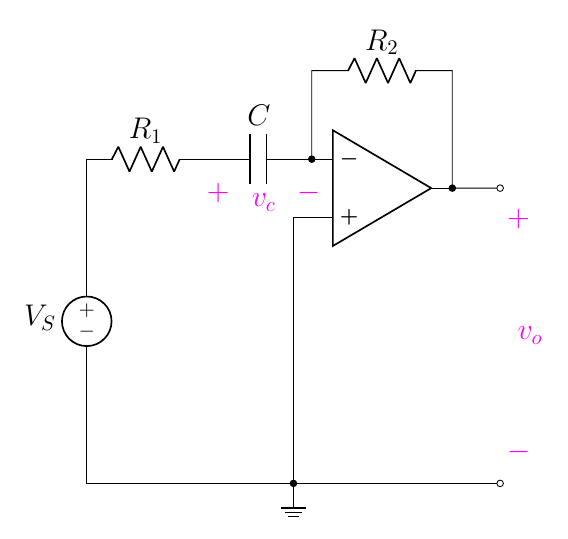
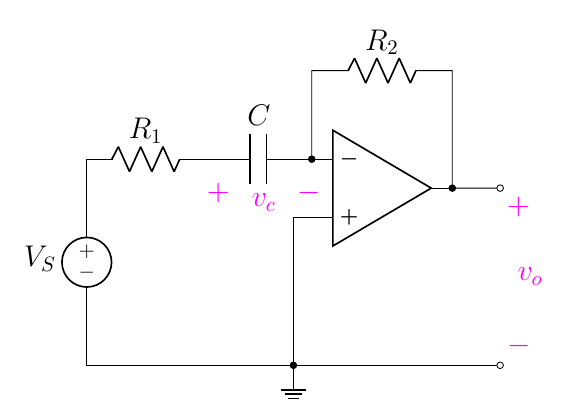
edit 7.73

diff --git a/2.5 First-Order Op Amp/7.7 First Order Op-Amp Circuit/7.73(new).tex b/2.5 First-Order Op Amp/7.7 First Order Op-Amp Circuit/7.73(new).tex
@@ -2,7 +2,7 @@
 \begin{document}
 \begin{circuitikz}[american,cute inductors]
     \input{../../preamble2.tex}
-    \draw (5,5) node[op amp,noinv input down](oa){};
+    \draw (5,3) node[op amp,noinv input down](oa){};
 
 
     \draw(0,0) 
@@ -26,10 +26,10 @@
 
     %%% find %%%
     % \node at(1.5,5.1) []{$t=0$};
-    \draw[magenta](7,5)  
-        to[open,v^=$v_o$] ++(0,-5);
+    \draw[magenta](7,3)  
+        to[open,v^=$v_o$] ++(0,-3);
 
-    \draw[magenta](2,5.2)  
+    \draw[magenta](2,3.2)  
         to[open,v_=$v_c$] ++(2,0);
 \end{circuitikz}
 \end{document}
